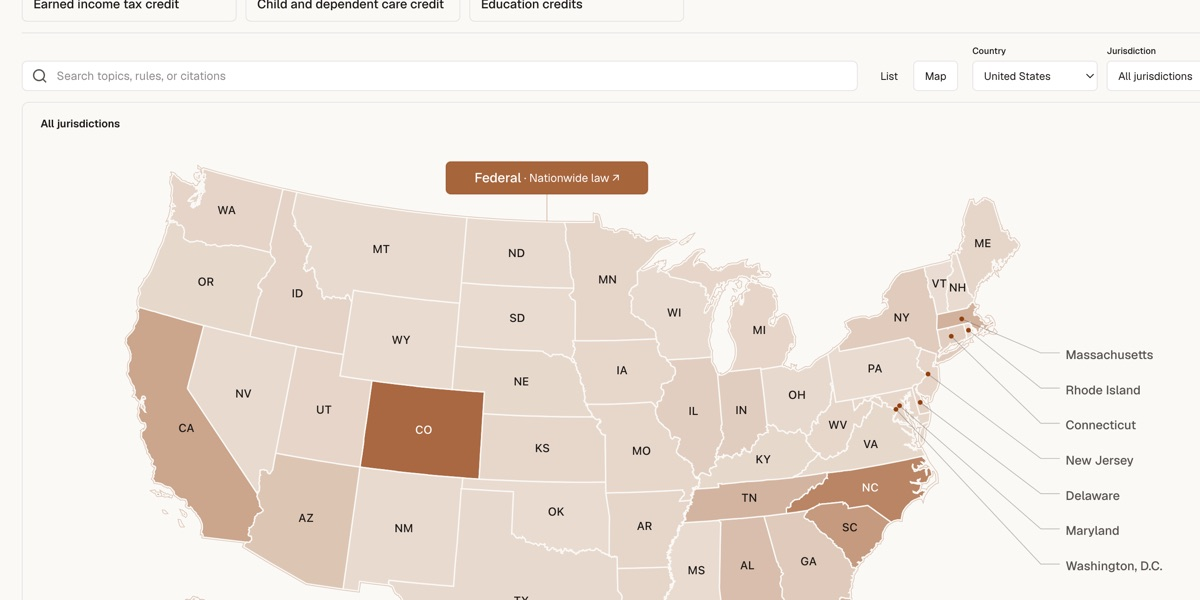
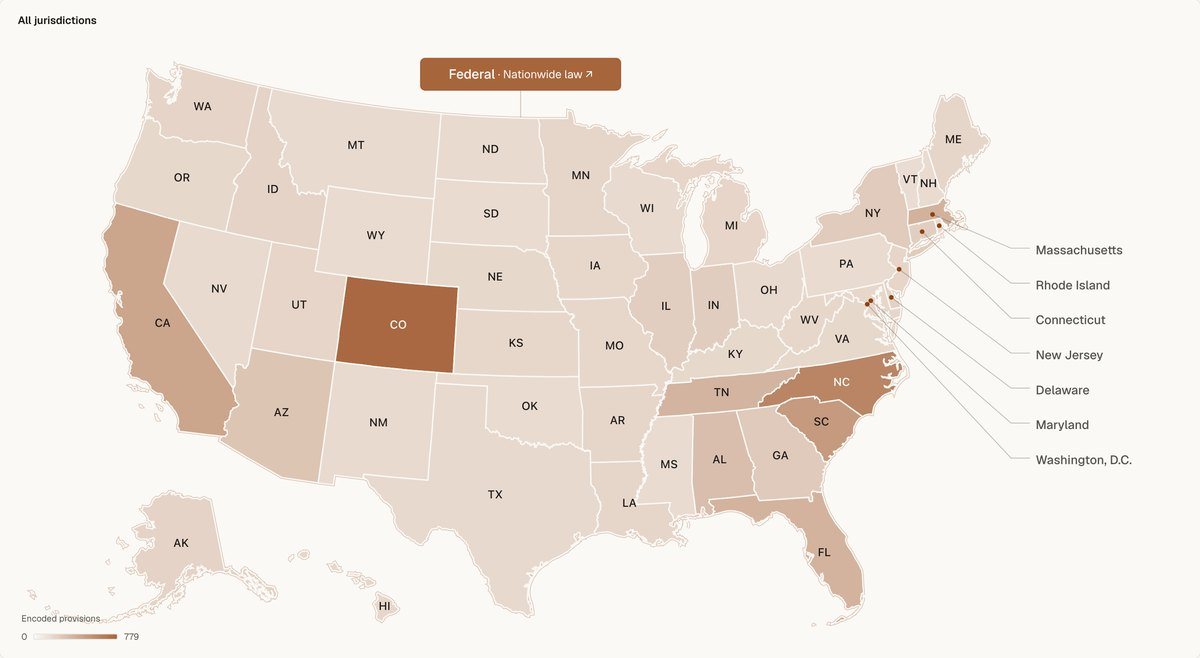
Headline reads New app interface; reframe the screenshot on the card
The screenshot was cropped by eye and clipped the chips above the map
and the legend below it. It is now cut to the map card's own bounds,
read from the page at a 1400x1000 viewport -- x25 y245, 1350 by 740 --
so the card is centered in the frame with nothing cut: Alaska, Hawaii
and the encoded-provisions scale are all inside it.

diff --git a/editions/2026-10-08.html b/editions/2026-10-08.html
@@ -46,7 +46,7 @@
                         <td class="pad" style="background-color: #faf9f6; padding: 44px 44px 8px 44px;">
                             <span style="display: inline-block; font-family: 'Geist Mono','SFMono-Regular',Menlo,Consolas,monospace; font-size: 10px; letter-spacing: 0.08em; text-transform: uppercase; color: #b45309; border: 1px solid #d9b28a; border-radius: 3px; padding: 3px 7px; margin-bottom: 14px;">Feature</span>
                             <h1 class="hero-title" style="margin: 0 0 22px 0; font-size: 31px; font-weight: 750; color: #1c1917; line-height: 1.14; letter-spacing: -0.025em;">
-                                The app opens on <span style="color: #b45309;">a map now.</span>
+                                New app <span style="color: #b45309;">interface</span>
                             </h1>
 
                             <table width="100%" cellpadding="0" cellspacing="0" style="margin: 0 0 22px 0;">
